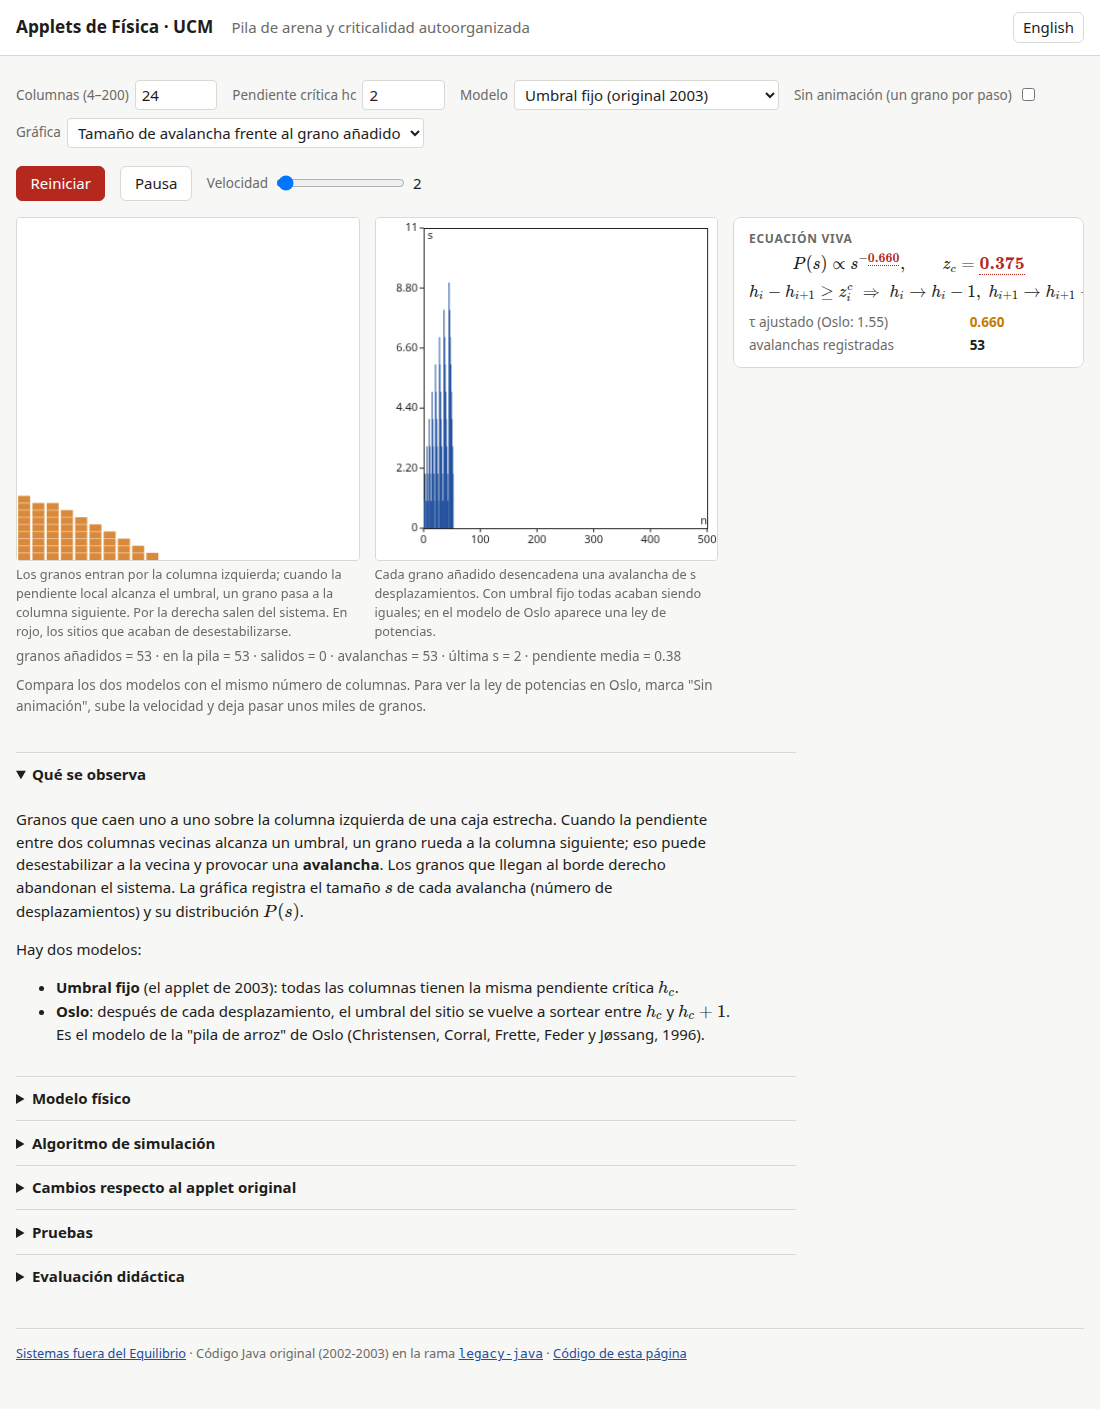
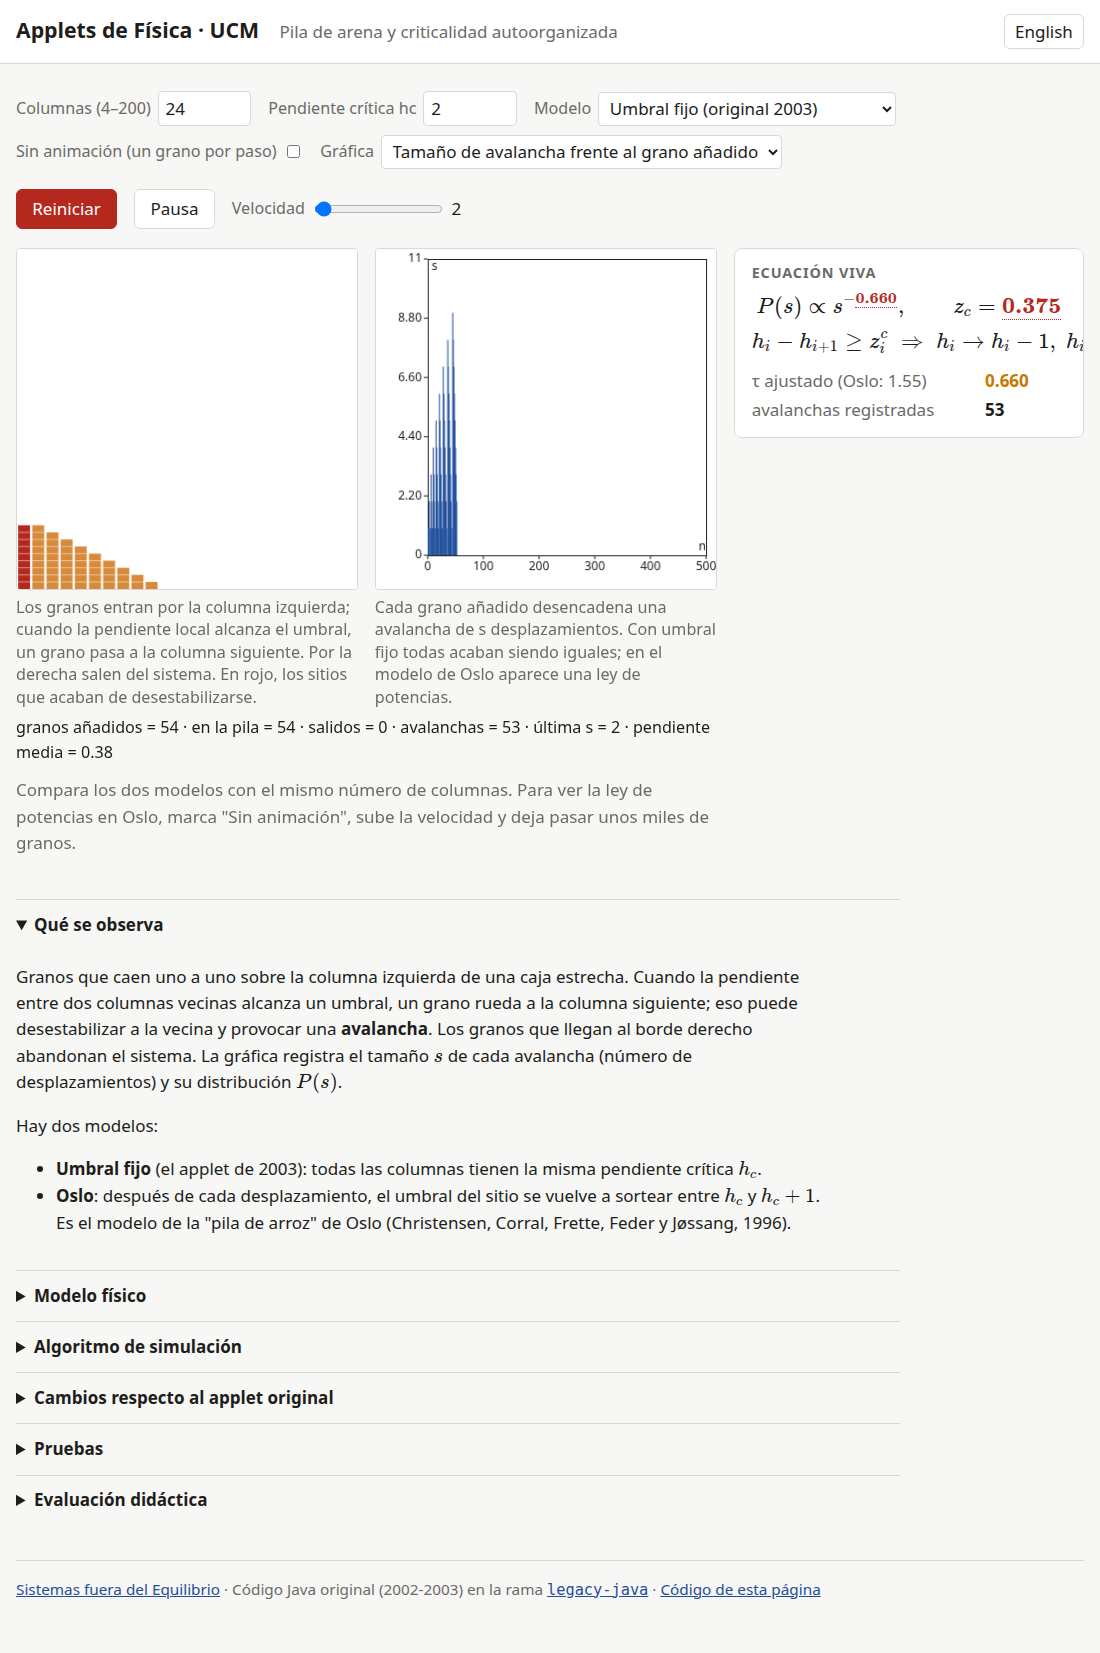
Larger base font and panel text; plot legends no longer overlap the y-axis label

diff --git a/assets/style.css b/assets/style.css
@@ -14,10 +14,10 @@
   --accent: #e05a4f; --link: #7fb0ff;
 }
 * { box-sizing: border-box; }
-html, body { margin: 0; background: var(--bg); color: var(--fg); font: 15px/1.5 system-ui, -apple-system, "Segoe UI", Roboto, sans-serif; }
+html, body { margin: 0; background: var(--bg); color: var(--fg); font: 17px/1.55 system-ui, -apple-system, "Segoe UI", Roboto, sans-serif; }
 a { color: var(--link); }
 header.site { display: flex; flex-wrap: wrap; align-items: baseline; gap: 0.6rem 1.2rem; padding: 0.8rem 16px; border-bottom: 1px solid var(--line); background: var(--panel); }
-header.site h1 { font-size: 1.15rem; margin: 0; }
+header.site h1 { font-size: 1.25rem; margin: 0; }
 header.site .spacer { flex: 1; }
 header.site nav a { margin-left: 1rem; }
 main { max-width: 1100px; margin: 0 auto; padding: 1rem 16px 3rem; }
@@ -28,7 +28,7 @@ button:disabled { opacity: 0.5; cursor: default; }
 button.lang { padding: 0.2rem 0.6rem; }
 .controls, .params { display: flex; flex-wrap: wrap; gap: 0.5rem 1rem; align-items: center; padding: 0.6rem 0; }
 label.ctl { display: inline-flex; align-items: center; gap: 0.4rem; }
-label.ctl span { color: var(--muted); font-size: 0.9rem; }
+label.ctl span { color: var(--muted); font-size: 0.95rem; }
 label.ctl input[type=number] { width: 5.5em; font: inherit; padding: 0.2rem 0.4rem; border: 1px solid var(--line); border-radius: 4px; background: var(--panel); color: var(--fg); }
 label.ctl select { font: inherit; padding: 0.2rem 0.4rem; border: 1px solid var(--line); border-radius: 4px; background: var(--panel); color: var(--fg); }
 label.ctl output { min-width: 2.5em; font-variant-numeric: tabular-nums; }
@@ -38,40 +38,40 @@ label.ctl output { min-width: 2.5em; font-variant-numeric: tabular-nums; }
 .tab-panel[hidden] { display: none; }
 .canvases { display: grid; grid-template-columns: repeat(auto-fit, minmax(300px, 1fr)); gap: 1rem; margin-top: 0.5rem; }
 .canvases figure { margin: 0; }
-.canvases figcaption { font-size: 0.85rem; color: var(--muted); margin-top: 0.3rem; }
+.canvases figcaption { font-size: 0.95rem; color: var(--muted); margin-top: 0.35rem; line-height: 1.4; }
 canvas.plot { width: 100%; aspect-ratio: 1 / 1; display: block; background: #fff; border: 1px solid var(--line); border-radius: 4px; touch-action: none; }
 canvas.plot.wide { aspect-ratio: 2 / 1; }
 canvas.plot.tall { aspect-ratio: 3 / 4; }
-.readout { font-variant-numeric: tabular-nums; color: var(--muted); font-size: 0.9rem; padding: 0.3rem 0; }
+.readout { font-variant-numeric: tabular-nums; color: var(--fg); font-size: 0.95rem; padding: 0.4rem 0; }
 .theory { max-width: 48rem; }
 .theory pre.raw-md { white-space: pre-wrap; }
 .theory table { border-collapse: collapse; }
 .theory td, .theory th { border: 1px solid var(--line); padding: 0.2rem 0.6rem; }
 .theory img { max-width: 100%; }
-footer.site { margin-top: 2rem; padding-top: 1rem; border-top: 1px solid var(--line); font-size: 0.85rem; color: var(--muted); }
+footer.site { margin-top: 2rem; padding-top: 1rem; border-top: 1px solid var(--line); font-size: 0.9rem; color: var(--muted); }
 .cards { display: grid; grid-template-columns: repeat(auto-fill, minmax(280px, 1fr)); gap: 1rem; }
 .card { display: block; background: var(--panel); border: 1px solid var(--line); border-radius: 8px; padding: 1rem; color: inherit; text-decoration: none; }
 .card:hover { border-color: var(--accent); }
 .card h2 { font-size: 1.05rem; margin: 0 0 0.3rem; }
 .card p { margin: 0; color: var(--muted); font-size: 0.9rem; }
 .card .tag { display: inline-block; font-size: 0.75rem; color: var(--accent); margin-top: 0.5rem; }
-.hint { font-size: 0.9rem; color: var(--muted); }
+.hint { font-size: 1rem; color: var(--muted); }
 
 /* ---- course shell ---- */
 button.icon { padding: 0.2rem 0.55rem; font-size: 1.05rem; line-height: 1; }
 .course-head { position: sticky; top: 0; z-index: 5; }
 .course-head h1 a { color: inherit; text-decoration: none; }
 .course-head #exp-title .num { display: inline-block; min-width: 1.5em; margin-right: 0.4em; padding: 0 0.3em; border-radius: 4px; background: var(--accent); color: var(--accent-fg); font-size: 0.8rem; text-align: center; }
-.course-body { display: grid; grid-template-columns: 250px minmax(0, 1fr); min-height: calc(100vh - 3.2rem); }
+.course-body { display: grid; grid-template-columns: 270px minmax(0, 1fr); min-height: calc(100vh - 3.2rem); }
 .sidebar { border-right: 1px solid var(--line); background: var(--panel); padding: 1rem 0.8rem 2rem; position: sticky; top: 3.2rem; align-self: start; max-height: calc(100vh - 3.2rem); overflow: auto; }
-.sidebar h2 { font-size: 0.75rem; text-transform: uppercase; letter-spacing: 0.06em; color: var(--muted); margin: 1rem 0.4rem 0.4rem; }
+.sidebar h2 { font-size: 0.8rem; text-transform: uppercase; letter-spacing: 0.06em; color: var(--muted); margin: 1rem 0.4rem 0.4rem; }
 .sidebar ol, .sidebar ul { list-style: none; margin: 0; padding: 0; }
-.sidebar a { display: flex; gap: 0.5rem; align-items: baseline; padding: 0.35rem 0.5rem; border-radius: 6px; color: inherit; text-decoration: none; font-size: 0.92rem; }
+.sidebar a { display: flex; gap: 0.5rem; align-items: baseline; padding: 0.4rem 0.5rem; border-radius: 6px; color: inherit; text-decoration: none; font-size: 1rem; }
 .sidebar a:hover { background: color-mix(in srgb, var(--accent) 10%, transparent); }
 .sidebar a[aria-current="page"] { background: color-mix(in srgb, var(--accent) 16%, transparent); font-weight: 600; }
 .sidebar a .num { min-width: 1.4em; color: var(--accent); font-variant-numeric: tabular-nums; font-weight: 600; }
 .sidebar a.home { font-weight: 600; margin-bottom: 0.3rem; }
-.content { padding: 1rem 16px 3rem; max-width: 1200px; }
+.content { padding: 1rem 16px 3rem; max-width: 1280px; }
 .home .lead { font-size: 1.15rem; max-width: 46rem; }
 .home p { max-width: 46rem; }
 #nav-toggle { display: none; }
@@ -86,11 +86,11 @@ button.icon { padding: 0.2rem 0.55rem; font-size: 1.05rem; line-height: 1; }
 .stage .canvases { margin-top: 0; }
 @media (max-width: 1000px) { .stage { grid-template-columns: 1fr; } }
 .liveeq { background: var(--panel); border: 1px solid var(--line); border-radius: 8px; padding: 0.8rem 1rem; overflow-x: auto; }
-.liveeq h3 { margin: 0 0 0.4rem; font-size: 0.8rem; text-transform: uppercase; letter-spacing: 0.06em; color: var(--muted); }
-.liveeq .eq { margin: 0.3rem 0; font-size: 0.95rem; }
+.liveeq h3 { margin: 0 0 0.4rem; font-size: 0.85rem; text-transform: uppercase; letter-spacing: 0.06em; color: var(--muted); }
+.liveeq .eq { margin: 0.4rem 0; font-size: 1.1rem; }
 .liveeq .eq .katex-display { margin: 0.4rem 0; }
 .liveeq .slot { color: var(--accent); font-weight: 600; border-bottom: 1px dotted var(--accent); }
-.indicators { display: grid; grid-template-columns: auto auto; gap: 0.15rem 0.8rem; margin: 0.6rem 0 0; font-size: 0.9rem; }
+.indicators { display: grid; grid-template-columns: auto auto; gap: 0.2rem 0.8rem; margin: 0.7rem 0 0; font-size: 1rem; }
 .indicators dt { color: var(--muted); }
 .indicators dd { margin: 0; font-variant-numeric: tabular-nums; font-weight: 600; }
 .indicators dd.ok { color: #2e8b57; } .indicators dd.warn { color: #c77a00; }
@@ -107,4 +107,4 @@ details.sec .theory { padding: 0.2rem 0 0.6rem; }
 .canvases.single { grid-template-columns: 1fr; }
 .toggles button[aria-pressed="true"] { border-color: var(--accent); font-weight: 600; }
 .sidebar .tad, .course-head .tad { color: var(--accent); font-weight: 700; margin-left: 0.15em; }
-.sidebar .tad-legend { font-size: 0.75rem; color: var(--muted); margin: 1rem 0.5rem 0; line-height: 1.35; }
+.sidebar .tad-legend { font-size: 0.85rem; color: var(--muted); margin: 1rem 0.5rem 0; line-height: 1.35; }

diff --git a/lib/plot.js b/lib/plot.js
@@ -7,7 +7,7 @@ export class Plot {
     this.axes = opts.axes ?? false;
     this.xlabel = opts.xlabel ?? '';
     this.ylabel = opts.ylabel ?? '';
-    this.margin = this.axes ? { l: 48, r: 10, t: 10, b: 32 } : { l: 0, r: 0, t: 0, b: 0 };
+    this.margin = this.axes ? { l: 52, r: 10, t: 10, b: 34 } : { l: 0, r: 0, t: 0, b: 0 };
     this.bg = opts.bg ?? '#ffffff';
     this.fg = opts.fg ?? '#222222';
     this.xTicks = opts.xTicks ?? 5;
@@ -98,15 +98,17 @@ export class Plot {
     const [a, b] = this.toPixel(x, y);
     this.ctx.fillRect(a, b, size, size);
   }
-  text(x, y, str, { align = 'left', baseline = 'alphabetic', font = '12px system-ui, sans-serif' } = {}) {
+  text(x, y, str, { align = 'left', baseline = 'alphabetic', font = '13px system-ui, sans-serif' } = {}) {
     const [a, b] = this.toPixel(x, y);
     this.ctx.font = font; this.ctx.textAlign = align; this.ctx.textBaseline = baseline;
     this.ctx.fillText(str, a, b);
   }
   // Text at a pixel offset from the plot's top-left corner (for annotations).
   label(px, py, str, opts = {}) {
-    this.ctx.font = opts.font ?? '12px system-ui, sans-serif';
+    this.ctx.font = opts.font ?? '13px system-ui, sans-serif';
     this.ctx.textAlign = opts.align ?? 'left'; this.ctx.textBaseline = 'top';
+    // Keep legends clear of the y-axis label drawn at the top-left corner.
+    if (this.axes && this.ylabel && py < 20) py += 18;
     this.ctx.fillText(str, this.margin.l + px, this.margin.t + py);
   }
   drawImage(img, x, y, w, h) {
@@ -117,7 +119,7 @@ export class Plot {
     const c = this.ctx;
     c.save();
     c.strokeStyle = this.fg; c.fillStyle = this.fg; c.lineWidth = 1;
-    c.font = '11px system-ui, sans-serif';
+    c.font = '12px system-ui, sans-serif';
     const { l, t } = this.margin; const W = this.plotW, H = this.plotH;
     c.strokeRect(l + 0.5, t + 0.5, W, H);
     c.textAlign = 'center'; c.textBaseline = 'top';
